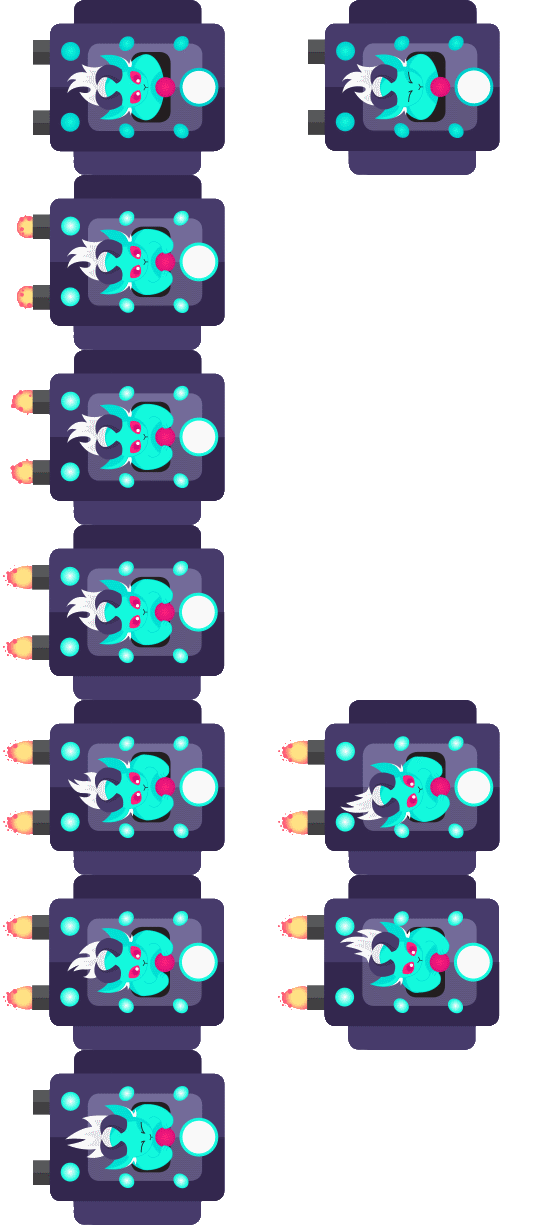
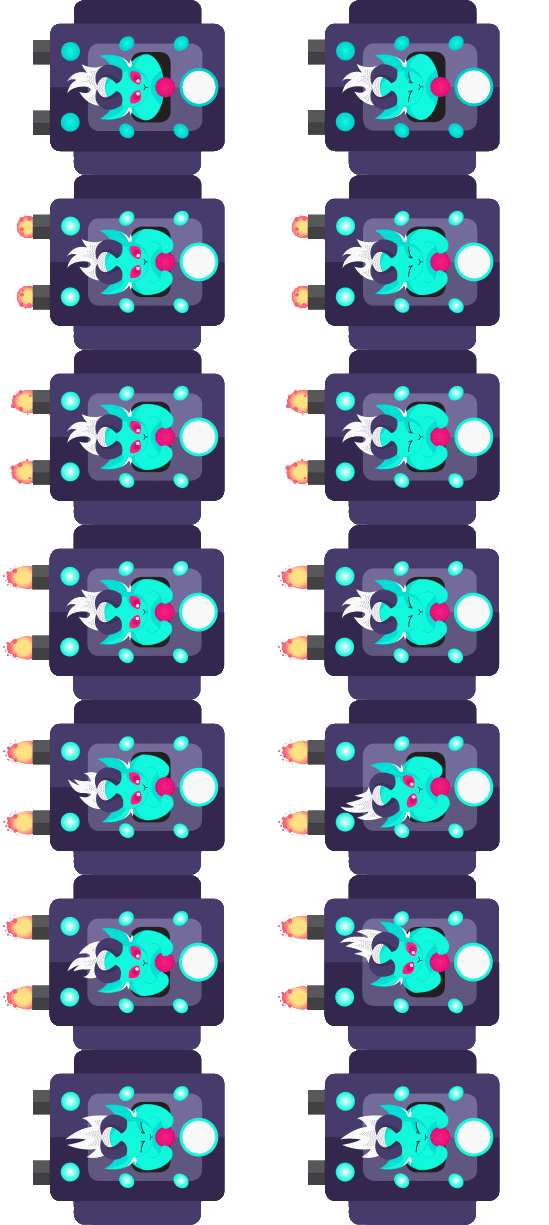
Blinking Added for animation. Finite State Machine code improved

Changed region(s): [[0.4954, 0.1241, 0.929, 0.5894], [0.5574, 0.8376, 0.929, 1.0]]

diff --git a/src/GunSystem.cpp b/src/GunSystem.cpp
@@ -71,15 +71,19 @@ void GunSystem::CreateBulletRequest(Entity*& e, int id)
 
 	GunComponent* gun = static_cast<GunComponent*>(e->GetComponent(Component::Type::Gun));
 
+	float width = gunTransform->rect.w * 0.5f;
+	float height = gunTransform->rect.h * 0.5f;
+	float angleOffset = 7.5f;
+
+	float barrelLenght = sqrt(width * width + height * height);
+
 	if (gun->id == (int)PowerUpComponent::Type::Shotgun)
 	{
 		std::vector<float> data = std::vector<float>();
 
-		float barrelLenght = sqrt(gunTransform->rect.w * gunTransform->rect.w + gunTransform->rect.h * gunTransform->rect.h);
-
 		data.push_back(id); //id
-		data.push_back(gunTransform->rect.x + cos(gunTransform->angle * M_PI / 180.0f) * barrelLenght); //xPosition
-		data.push_back(gunTransform->rect.y + gunTransform->rect.h + sin(gunTransform->angle * M_PI / 180.0f) * barrelLenght); //yPosition
+		data.push_back(gunTransform->rect.x + cos((gunTransform->angle + angleOffset) * M_PI / 180.0f) * barrelLenght); //xPosition
+		data.push_back(gunTransform->rect.y + sin((gunTransform->angle + angleOffset) * M_PI / 180.0f) * barrelLenght); //yPosition
 		data.push_back(-1); //width
 		data.push_back(-1); //height
 		data.push_back(gunTransform->angle); //angle
@@ -90,11 +94,9 @@ void GunSystem::CreateBulletRequest(Entity*& e, int id)
 
 		data.clear();
 
-		barrelLenght = sqrt(gunTransform->rect.w * gunTransform->rect.w + gunTransform->rect.h * gunTransform->rect.h);
-
 		data.push_back(id); //id
-		data.push_back(gunTransform->rect.x + cos(gunTransform->angle * M_PI / 180.0f) * barrelLenght); //xPosition
-		data.push_back(gunTransform->rect.y - gunTransform->rect.h + sin(gunTransform->angle * M_PI / 180.0f) * barrelLenght); //yPosition
+		data.push_back(gunTransform->rect.x + cos((gunTransform->angle - angleOffset) * M_PI / 180.0f) * barrelLenght); //xPosition
+		data.push_back(gunTransform->rect.y + sin((gunTransform->angle - angleOffset) * M_PI / 180.0f) * barrelLenght); //yPosition
 		data.push_back(-1); //width
 		data.push_back(-1); //height
 		data.push_back(gunTransform->angle); //angle
@@ -102,21 +104,78 @@ void GunSystem::CreateBulletRequest(Entity*& e, int id)
 		data.push_back(sin((gunTransform->angle - 30) * M_PI / 180.0f) * (MAX_BULLET_VELOCITY)); //yVelocity
 
 		_creationRequests.push_back(std::pair<EntityType, std::vector<float>>(EntityType::Bullet, data));
+
+		data.clear();
+
+		data.push_back(id); //id
+		data.push_back(gunTransform->rect.x + cos(gunTransform->angle * M_PI / 180.0f) * barrelLenght); //xPosition
+		data.push_back(gunTransform->rect.y + sin(gunTransform->angle * M_PI / 180.0f) * barrelLenght); //yPosition
+		data.push_back(-1); //width
+		data.push_back(-1); //height
+		data.push_back(gunTransform->angle); //angle
+		data.push_back(cos(gunTransform->angle * M_PI / 180.0f) * (MAX_BULLET_VELOCITY)); //xVelocity
+		data.push_back(sin(gunTransform->angle * M_PI / 180.0f) * (MAX_BULLET_VELOCITY)); //yVelocity
+
+		_creationRequests.push_back(std::pair<EntityType, std::vector<float>>(EntityType::Bullet, data));
 	}
+	else if (gun->id == (int)PowerUpComponent::Type::Handgun)
+	{
+		std::vector<float> data = std::vector<float>();
 
-	std::vector<float> data = std::vector<float>();
+		data.push_back(id); //id
+		data.push_back(gunTransform->rect.x + cos((gunTransform->angle + angleOffset) * M_PI / 180.0f) * barrelLenght); //xPosition
+		data.push_back(gunTransform->rect.y + sin((gunTransform->angle + angleOffset) * M_PI / 180.0f) * barrelLenght); //yPosition
+		data.push_back(-1); //width
+		data.push_back(-1); //height
+		data.push_back(gunTransform->angle); //angle
+		data.push_back(cos(gunTransform->angle * M_PI / 180.0f) * (MAX_BULLET_VELOCITY)); //xVelocity
+		data.push_back(sin(gunTransform->angle * M_PI / 180.0f) * (MAX_BULLET_VELOCITY)); //yVelocity
 
-	float barrelLenght = sqrt(gunTransform->rect.w * gunTransform->rect.w + gunTransform->rect.h * gunTransform->rect.h);
-	float offset = 0;// rand() % (int)(gunTransform->rect.h + gunTransform->rect.h) - gunTransform->rect.h;
+		_creationRequests.push_back(std::pair<EntityType, std::vector<float>>(EntityType::Bullet, data));
 
-	data.push_back(id); //id
-	data.push_back(gunTransform->rect.x + cos(gunTransform->angle * M_PI / 180.0f) * barrelLenght); //xPosition
-	data.push_back(gunTransform->rect.y + offset + sin(gunTransform->angle * M_PI / 180.0f) * barrelLenght); //yPosition
-	data.push_back(-1); //width
-	data.push_back(-1); //height
-	data.push_back(gunTransform->angle); //angle
-	data.push_back(cos(gunTransform->angle * M_PI / 180.0f) * (MAX_BULLET_VELOCITY)); //xVelocity
-	data.push_back(sin(gunTransform->angle * M_PI / 180.0f) * (MAX_BULLET_VELOCITY)); //yVelocity
+		data.clear();
 
-	_creationRequests.push_back(std::pair<EntityType, std::vector<float>>(EntityType::Bullet, data));
+		data.push_back(id); //id
+		data.push_back(gunTransform->rect.x + cos((gunTransform->angle - angleOffset) * M_PI / 180.0f) * barrelLenght); //xPosition
+		data.push_back(gunTransform->rect.y + sin((gunTransform->angle - angleOffset) * M_PI / 180.0f) * barrelLenght); //yPosition
+		data.push_back(-1); //width
+		data.push_back(-1); //height
+		data.push_back(gunTransform->angle); //angle
+		data.push_back(cos(gunTransform->angle * M_PI / 180.0f) * (MAX_BULLET_VELOCITY)); //xVelocity
+		data.push_back(sin(gunTransform->angle * M_PI / 180.0f) * (MAX_BULLET_VELOCITY)); //yVelocity
+
+		_creationRequests.push_back(std::pair<EntityType, std::vector<float>>(EntityType::Bullet, data));
+	}
+	else
+	{
+		std::vector<float> data = std::vector<float>();
+
+		float offset = rand() % 10 - 5;
+
+		data.push_back(id); //id
+		data.push_back(gunTransform->rect.x + cos((gunTransform->angle + angleOffset + offset) * M_PI / 180.0f) * barrelLenght); //xPosition
+		data.push_back(gunTransform->rect.y + sin((gunTransform->angle + angleOffset + offset) * M_PI / 180.0f) * barrelLenght); //yPosition
+		data.push_back(-1); //width
+		data.push_back(-1); //height
+		data.push_back(gunTransform->angle); //angle
+		data.push_back(cos(gunTransform->angle * M_PI / 180.0f) * (MAX_BULLET_VELOCITY)); //xVelocity
+		data.push_back(sin(gunTransform->angle * M_PI / 180.0f) * (MAX_BULLET_VELOCITY)); //yVelocity
+
+		_creationRequests.push_back(std::pair<EntityType, std::vector<float>>(EntityType::Bullet, data));
+
+		data.clear();
+		
+		offset = rand() % 10 - 5;
+
+		data.push_back(id); //id
+		data.push_back(gunTransform->rect.x + cos((gunTransform->angle - angleOffset + offset) * M_PI / 180.0f) * barrelLenght); //xPosition
+		data.push_back(gunTransform->rect.y + sin((gunTransform->angle - angleOffset + offset) * M_PI / 180.0f) * barrelLenght); //yPosition
+		data.push_back(-1); //width
+		data.push_back(-1); //height
+		data.push_back(gunTransform->angle); //angle
+		data.push_back(cos(gunTransform->angle * M_PI / 180.0f) * (MAX_BULLET_VELOCITY)); //xVelocity
+		data.push_back(sin(gunTransform->angle * M_PI / 180.0f) * (MAX_BULLET_VELOCITY)); //yVelocity
+
+		_creationRequests.push_back(std::pair<EntityType, std::vector<float>>(EntityType::Bullet, data));
+	}
 }

diff --git a/src/AnimationSystem.cpp b/src/AnimationSystem.cpp
@@ -60,10 +60,10 @@ void AnimationSystem::Process(float dt)
 						}
 					}
 
-					if (physics->xDir != 0 && physics->yDir != 0)
+				/*	if (physics->xDir != 0 && physics->yDir != 0)
 					{//CHECK WICH DIRECTION??? LEFT/RIGHT
 						animation->state = AnimationComponent::State::TurningLeft;
-					}
+					}*/
 				}
 
 				// Blink Counter
@@ -87,157 +87,51 @@ void AnimationSystem::FSM(AnimationComponent*& animation, Entity* e)
 
 	switch (animation->state)
 	{
-	case AnimationComponent::State::Idle:
-	{
-		spriteComponent->sourceRect.y = (int)animation->state * spriteComponent->sourceRect.h;
-
-		if (animation->counter > 2)
+		case AnimationComponent::State::Bumping:
 		{
-			spriteComponent->sourceRect.x = spriteComponent->sourceRect.w;
+			spriteComponent->sourceRect.y = (int)animation->state * spriteComponent->sourceRect.h;
+			AnimationCounter(spriteComponent->sourceRect, animation->counter);
+
+			if (animation->bumpingCounter > 0.2f)
+			{
+				animation->state = AnimationComponent::State::Idle;
+				animation->bumpingCounter -= 0.2f;
+			}
+			break;
 		}
 
-		if (animation->counter > 2.2)
+		case AnimationComponent::State::Staggered:
 		{
-			spriteComponent->sourceRect.x = 0;
-			animation->counter -= 2.2;
+			spriteComponent->sourceRect.y = (int)AnimationComponent::State::Bumping * spriteComponent->sourceRect.h;
+			AnimationCounter(spriteComponent->sourceRect, animation->counter);
+
+			StatusEffectComponent* status = static_cast<StatusEffectComponent*>(e->GetComponent(Component::Type::StatusEffect));
+			if (!status->staggered)
+			{
+				animation->state = AnimationComponent::State::Idle;
+			}
+			break;
 		}
 
-		break;
+		default:
+		{
+			spriteComponent->sourceRect.y = (int)animation->state * spriteComponent->sourceRect.h;
+			AnimationCounter(spriteComponent->sourceRect, animation->counter);
+			break;
+		}
 	}
-	case AnimationComponent::State::Slow:
+}
+
+void AnimationSystem::AnimationCounter(SDL_Rect& sourceRect, float& timer)
+{
+	if (timer > 2.2)
 	{
-		spriteComponent->sourceRect.y = (int)animation->state * spriteComponent->sourceRect.h;
-/*
-		if (animation->counter > 2)
-		{
-			spriteComponent->sourceRect.x = spriteComponent->sourceRect.w;
-		}
-
-		if (animation->counter > 2.2)
-		{
-			spriteComponent->sourceRect.x = 0;
-			animation->counter -= 2.2;
-		}
-		*/
-		break;
+		sourceRect.x = 0;
+		timer -= 2.2;
 	}
-	case AnimationComponent::State::Medium:
+	else if (timer > 2)
 	{
-		spriteComponent->sourceRect.y = (int)animation->state * spriteComponent->sourceRect.h;
-		/*
-		if (animation->counter > 2)
-		{
-			spriteComponent->sourceRect.x = spriteComponent->sourceRect.w;
-		}
-
-		if (animation->counter > 2.2)
-		{
-			spriteComponent->sourceRect.x = 0;
-			animation->counter -= 2.2;
-		}
-		*/
-		break;
-	}
-	case AnimationComponent::State::Fast:
-	{
-		spriteComponent->sourceRect.y = (int)animation->state * spriteComponent->sourceRect.h;
-		/*
-		if (animation->counter > 2)
-		{
-			spriteComponent->sourceRect.x = spriteComponent->sourceRect.w;
-		}
-
-		if (animation->counter > 2.2)
-		{
-			spriteComponent->sourceRect.x = 0;
-			animation->counter -= 2.2;
-		}
-		*/
-		break;
-	}
-	case AnimationComponent::State::TurningLeft:
-	{
-		spriteComponent->sourceRect.y = (int)animation->state * spriteComponent->sourceRect.h;
-
-		if (animation->counter > 2)
-		{
-			spriteComponent->sourceRect.x = spriteComponent->sourceRect.w;
-		}
-
-		if (animation->counter > 2.2)
-		{
-			spriteComponent->sourceRect.x = 0;
-			animation->counter -= 2.2;
-		}
-
-		break;
-	}
-	case AnimationComponent::State::TurningRight:
-	{
-		spriteComponent->sourceRect.y = (int)animation->state * spriteComponent->sourceRect.h;
-
-		if (animation->counter > 2)
-		{
-			spriteComponent->sourceRect.x = spriteComponent->sourceRect.w;
-		}
-
-		if (animation->counter > 2.2)
-		{
-			spriteComponent->sourceRect.x = 0;
-			animation->counter -= 2.2;
-		}
-
-		break;
-	}
-	case AnimationComponent::State::Bumping:
-	{
-		spriteComponent->sourceRect.y = (int)animation->state * spriteComponent->sourceRect.h;
-		/*
-		if (animation->counter > 2)
-		{
-			spriteComponent->sourceRect.x = spriteComponent->sourceRect.w;
-		}
-
-		if (animation->counter > 2.2)
-		{
-			spriteComponent->sourceRect.x = 0;
-			animation->counter -= 2.2;
-		}
-		*/
-		if (animation->bumpingCounter > 0.2f)
-		{
-			animation->state = AnimationComponent::State::Idle;
-			animation->bumpingCounter -= 0.2f;
-		}
-
-		break;
-	}
-	case AnimationComponent::State::Staggered:
-	{
-		spriteComponent->sourceRect.y = (int)/*animation->state*/AnimationComponent::State::Bumping * spriteComponent->sourceRect.h;
-		/*
-		if (animation->counter > 2)
-		{
-			spriteComponent->sourceRect.x = spriteComponent->sourceRect.w;
-		}
-
-		if (animation->counter > 2.2)
-		{
-			spriteComponent->sourceRect.x = 0;
-			animation->counter -= 2.2;
-		}
-		*/
-		StatusEffectComponent* status = static_cast<StatusEffectComponent*>(e->GetComponent(Component::Type::StatusEffect));
-		if (!status->staggered)
-		{
-			animation->state = AnimationComponent::State::Idle;
-		}
-
-		break;
-	}
-
-	default:
-		break;
+		sourceRect.x = sourceRect.w;
 	}
 }
 

diff --git a/src/RenderSystem.cpp b/src/RenderSystem.cpp
@@ -47,8 +47,8 @@ void RenderSystem::Process(float dt)
 					SpriteComponent* sprite = static_cast<SpriteComponent*>(e->GetComponent(Component::Type::Sprite));
 
 					SDL_Rect drawRectangle = transform->rect;
-					drawRectangle.x += transform->origin.x;
-					drawRectangle.y += transform->origin.y;
+					drawRectangle.x -= transform->origin.x;
+					drawRectangle.y -= transform->origin.y;
 
 					//Render to screen
 					SDL_RenderCopyEx(_renderer, sprite->texture, &sprite->sourceRect, &_camera->worldToScreen(drawRectangle), transform->angle, &transform->origin, SDL_FLIP_NONE);

diff --git a/src/UISystem.cpp b/src/UISystem.cpp
@@ -72,8 +72,8 @@ void UISystem::Process(float dt)
 				SpriteComponent* sprite = static_cast<SpriteComponent*>(e->GetComponent(Component::Type::Sprite));
 
 				SDL_Rect drawRectangle = transform->rect;
-				drawRectangle.x += transform->origin.x;
-				drawRectangle.y += transform->origin.y;
+				drawRectangle.x -= transform->origin.x;
+				drawRectangle.y -= transform->origin.y;
 
 				SDL_RenderCopyEx(_renderer, sprite->texture, &sprite->sourceRect, &drawRectangle, transform->angle, &transform->origin, SDL_FLIP_NONE);
 			}

diff --git a/include/AnimationSystem.h b/include/AnimationSystem.h
@@ -20,6 +20,7 @@ public:
 
 private:
 	void FSM(AnimationComponent*& animation, Entity* e);
+	void AnimationCounter(SDL_Rect& sourceRect, float& timer);
 
 private:
 	std::map<TextureID, SDL_Texture*>*	_textureHolder;

diff --git a/include/GunSystem.h b/include/GunSystem.h
@@ -10,6 +10,7 @@ public:
 
 	void							Process(float dt = 0.f) override;
 
+private:
 	void							CreateBulletRequest(Entity*& e, int id);
 
 private:
